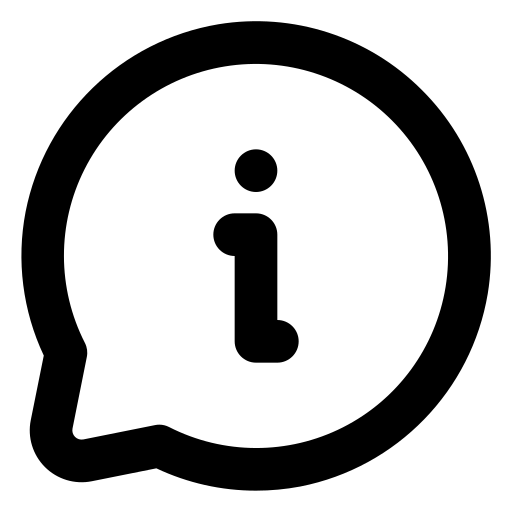
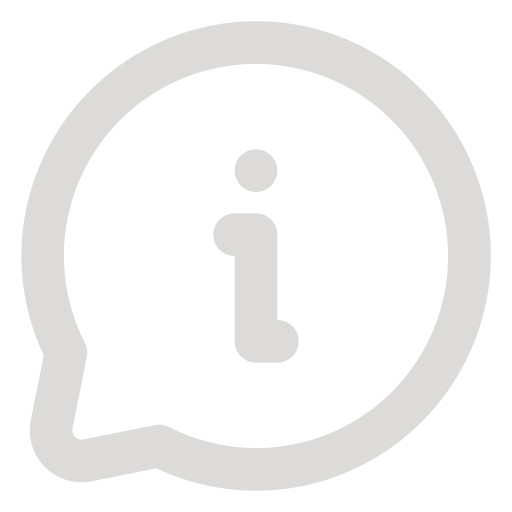
Update client

Changed region(s): [[0.0312, 0.0312, 0.9688, 0.9688], [0.4062, 0.4062, 0.5938, 0.7188], [0.4375, 0.2812, 0.5625, 0.375]]

diff --git a/client/src/layouts/Dashboard.jsx b/client/src/layouts/Dashboard.jsx
@@ -18,10 +18,15 @@ import HomePic from "../assets/home.png";
 import ProfilePic from "../assets/user.png";
 import HistoryPic from "../assets/history.png";
 import AboutPic from "../assets/about.png";
+import HomePicActive from "../assets/homeActive.png";
+import ProfilePicActive from "../assets/userActive.png";
+import HistoryPicActive from "../assets/historyActive.png";
+import AboutPicActive from "../assets/aboutActive.png";
 
 function Dashboard() {
   const [open, setOpen] = useState(false);
   const [showHamburger, setShowHamburger] = useState(true);
+  const [selectedNavItem, setSelectedNavItem] = useState("home");
 
   const toggleMenu = () => {
     setOpen(!open);
@@ -47,6 +52,10 @@ function Dashboard() {
     }
   }, [showHamburger]);
 
+  const handleNavItemClick = (navItem) => {
+    setSelectedNavItem(navItem);
+  };
+
   return (
     <div style={{ height: "100%" }}>
       <BarWrapper id="navbar">
@@ -63,20 +72,32 @@ function Dashboard() {
           </HamburgerIcon>
         )}
         <NavMenu open={open}>
-          <NavItem to="home">
-            <NavIconImg src={HomePic} />
+          <NavItem to="home" onClick={() => handleNavItemClick("home")}>
+            <NavIconImg
+              src={selectedNavItem === "home" ? HomePicActive : HomePic}
+            />
             Home
           </NavItem>
-          <NavItem to="profile">
-            <NavIconImg src={ProfilePic} />
+          <NavItem to="profile" onClick={() => handleNavItemClick("profile")}>
+            <NavIconImg
+              src={
+                selectedNavItem === "profile" ? ProfilePicActive : ProfilePic
+              }
+            />
             Profile
           </NavItem>
-          <NavItem to="history">
-            <NavIconImg src={HistoryPic} />
+          <NavItem to="history" onClick={() => handleNavItemClick("history")}>
+            <NavIconImg
+              src={
+                selectedNavItem === "history" ? HistoryPicActive : HistoryPic
+              }
+            />
             History
           </NavItem>
-          <NavItem to="about">
-            <NavIconImg src={AboutPic} />
+          <NavItem to="about" onClick={() => handleNavItemClick("about")}>
+            <NavIconImg
+              src={selectedNavItem === "about" ? AboutPicActive : AboutPic}
+            />
             About
           </NavItem>
         </NavMenu>

diff --git a/client/src/pages/Register/Register.style.js b/client/src/pages/Register/Register.style.js
@@ -1,35 +1,15 @@
-import styled, { keyframes } from "styled-components";
+import styled from "styled-components";
 import { Link } from "react-router-dom";
-
-const HeaderKeyFrame = keyframes`
-    0% {
-        background-position: 0% 50%;
-    }
-    50% {
-        background-position: 100% 50%;
-    }
-    100% {
-        background-position: 0% 50%;
-    }
-`;
+import Lottie from "lottie-react";
 
 export const Wrapper = styled.div`
+  display: flex;
+  flex-direction: column;
   height: 100vh;
   width: 100vw;
   display: flex;
   justify-content: center;
   align-items: center;
-  background-image: linear-gradient(
-      217deg,
-      rgba(0, 255, 159, 0.8),
-      rgb(165 43 43 / 0%) 70.71%
-    ),
-    linear-gradient(127deg, rgba(0, 184, 255, 0.8), rgba(0, 30, 255, 0) 70.71%),
-    linear-gradient(358deg, rgba(189, 0, 255, 0.8), rgba(214, 0, 255, 0) 70.71%);
-  background-position: top center;
-  animation: ${HeaderKeyFrame} 4500ms ease infinite;
-  background-size: 200% 100%;
-  clip-path: polygon(0 0, 100% 0, 100% 100%, 0 100%);
 `;
 
 export const Input = styled.input`
@@ -64,9 +44,9 @@ export const Form = styled.form`
   border-radius: 20px;
   box-shadow: 1px 0px 20px black;
   background-color: white;
-  gap: 35px;
+  gap: 20px;
   width: 30rem;
-  height: 35rem;
+  height: 30.5rem;
 `;
 
 export const RegisterButton = styled.button`
@@ -98,4 +78,23 @@ export const AlignSelections = styled.div`
   align-items: center;
   justify-content: center;
   gap: 50px;
+`;
+
+export const Title = styled.h1`
+  font-family: "Impact", fantasy;
+  font-size: 6rem;
+  font-weight: 400;
+`;
+
+export const LottieLogo = styled(Lottie)`
+  animation-duration: 0.001;
+  height: 9rem;
+  width: 9rem;
+  padding-top: 77px;
+  padding-right: 10px;
+`;
+
+export const LogoWrapper = styled.div`
+  display: flex;
+  padding: 0;
 `;

diff --git a/client/src/components/Table/Table.style.js b/client/src/components/Table/Table.style.js
@@ -5,6 +5,7 @@ export const TableContainer = styled.div`
   overflow: auto;
   height: 100%;
   position: relative;
+  box-shadow: 1px 0px 10px black;
   /* margin-top: 26px; */
   &::-webkit-scrollbar {
     width: 10px;
@@ -29,16 +30,25 @@ export const StyledTable = styled.table`
 
 export const TableHeader = styled.th`
   padding: 12px;
-  background-color: #f3ecec;
-  border-bottom: 2px solid #e1dbdb;
+  background-color: rgb(59 66 80);
+  border-bottom: 1.5px solid #383838;
+  color: whitesmoke;
+  font-weight: 450;
   position: sticky;
   top: 0;
   z-index: 0;
+
+  width: 100%;
+  table-layout: auto;
+  border-collapse: collapse;
+  white-space: nowrap;
+  overflow: hidden;
+  text-overflow: ellipsis;
 `;
 
 export const TableRow = styled.tr`
   &:nth-child(even) {
-    background-color: #f9f9f9cc;
+    background-color: #f9f9f996;
   }
   &:nth-child(odd) {
     background-color: #ffffff6e;
@@ -47,6 +57,12 @@ export const TableRow = styled.tr`
 
 export const TableCell = styled.td`
   padding: 12px;
+  width: 100%;
+  table-layout: auto;
+  border-collapse: collapse;
+  white-space: nowrap;
+  overflow: hidden;
+  text-overflow: ellipsis;
   /* border: 1px solid #e0e0e0; */
 `;
 

diff --git a/client/src/pages/Register/Register.jsx b/client/src/pages/Register/Register.jsx
@@ -1,4 +1,4 @@
-import React, { useState, useMemo } from "react";
+import { useState, useMemo } from "react";
 import Select from "react-select";
 import countryList from "react-select-country-list";
 import {
@@ -10,7 +10,12 @@ import {
   RegisterButton,
   WrapParagraphAndLink,
   AlignSelections,
+  LogoWrapper,
+  Title,
+  LottieLogo,
 } from "./Register.style";
+
+import AnimatedLogo from "../../assets/EDgL26btNA.json";
 
 function Register() {
   const [selectedCountry, setSelectedCountry] = useState(null);
@@ -27,7 +32,6 @@ function Register() {
   }
 
   const statusOptions = [
-    { value: "", label: "* Status" },
     { value: "student", label: "Student" },
     { value: "teacher", label: "Teacher" },
     { value: "employee", label: "Employee" },
@@ -70,6 +74,11 @@ function Register() {
 
   return (
     <Wrapper>
+      <LogoWrapper>
+        <Title>ATTACK</Title>
+        <LottieLogo animationData={AnimatedLogo} />
+        <Title>METER</Title>
+      </LogoWrapper>
       <Form onSubmit={handleSubmit}>
         <FieldWrapper>
           <Input name="first name" type="text" placeholder="* First name" />

diff --git a/client/src/pages/About/About.jsx b/client/src/pages/About/About.jsx
@@ -1,11 +1,11 @@
 import { useEffect, useState } from "react";
 import {
   AboutContainer,
-  // CallToAction,
-  // FeatureItem,
-  // FeatureList,
-  // SectionContent,
-  // SectionTitle,
+  CallToAction,
+  FeatureItem,
+  FeatureList,
+  SectionContent,
+  SectionTitle,
 } from "./About.style";
 
 function About() {
@@ -42,7 +42,7 @@ function About() {
       <AboutContainer style={{ height: aboutContainerHeight }}>
         {/*insert relevant content*/}
 
-        {/* <SectionTitle>About Us</SectionTitle>
+        <SectionTitle>About Us</SectionTitle>
         <SectionContent>
           Welcome to Attack-O-Meter, your ultimate platform for web security
           testing and training. Our mission is to empower developers, security
@@ -118,7 +118,7 @@ function About() {
           Remember, our goal is to promote responsible web security practices
           and foster a culture of continuous learning. Together, {"let's"} make
           the web a safer place for everyone.
-        </SectionContent> */}
+        </SectionContent>
       </AboutContainer>
     </div>
   );

diff --git a/client/src/layouts/Dashboard.style.js b/client/src/layouts/Dashboard.style.js
@@ -45,7 +45,7 @@ export const HamburgerIconBar = styled.span`
 `;
 
 export const BarWrapper = styled.nav`
-  background: #001eff5e;
+  background: #00031a33;
   display: flex;
   justify-content: space-between;
   width: 100%;
@@ -55,7 +55,7 @@ export const NavItem = styled(NavLink)`
   float: left;
   text-align: center;
   padding: 27px 45px;
-  color: black;
+  color: #dddada;
   text-decoration: none;
   font-size: 20px;
   &:hover {
@@ -98,7 +98,7 @@ export const NavMenu = styled.div`
     left: 0;
     bottom: 0;
     width: 100%;
-    background-color: #001eff5e;
+    background-color: #00031a33;
     padding: 20px;
     z-index: 1;
     opacity: 0.9;
@@ -108,7 +108,8 @@ export const NavMenu = styled.div`
 export const Title = styled.div`
   font-family: "Impact", fantasy;
   font-size: 3rem;
-  font-weight: 400;
+  font-weight: 300;
+  color: #dddada;
 `;
 
 export const LottieLogo = styled(Lottie)`

diff --git a/client/src/index.css b/client/src/index.css
@@ -16,11 +16,17 @@ body {
   width: 100vw;
   min-height: 100vh;
   overflow: hidden;
-  background-image: radial-gradient(
+  /* background-image: radial-gradient(
     circle at top center,
-    rgba(86, 207, 225, 1) -10%,
-    rgba(94, 96, 206, 1) 80%,
-    rgba(105, 48, 195, 1) 100%
-  );
+    rgba(3, 57, 108, 1) 87%,
+    rgba(0, 91, 150, 1) 56%,
+    rgba(179, 205, 224, 1) 0%
+  ); */
+  /* background-color: #a7bdcc; */
+  background-color: rgb(47, 53, 65);
+  /* background-color: rgb(121, 143, 182); */
+  /* background-image: url("./assets/vecteezy_blue-abstract-background-blue-background-design-abstract_17023139.jpg"); */
   background-position: top center;
+  /* background-size: cover;
+  background-repeat: no-repeat; */
 }

diff --git a/client/src/pages/Login/Login.style.js b/client/src/pages/Login/Login.style.js
@@ -64,6 +64,7 @@ export const Title = styled.h1`
   font-family: "Impact", fantasy;
   font-size: 6rem;
   font-weight: 400;
+  color: #dddada;
 `;
 
 export const Icon = styled.img`
